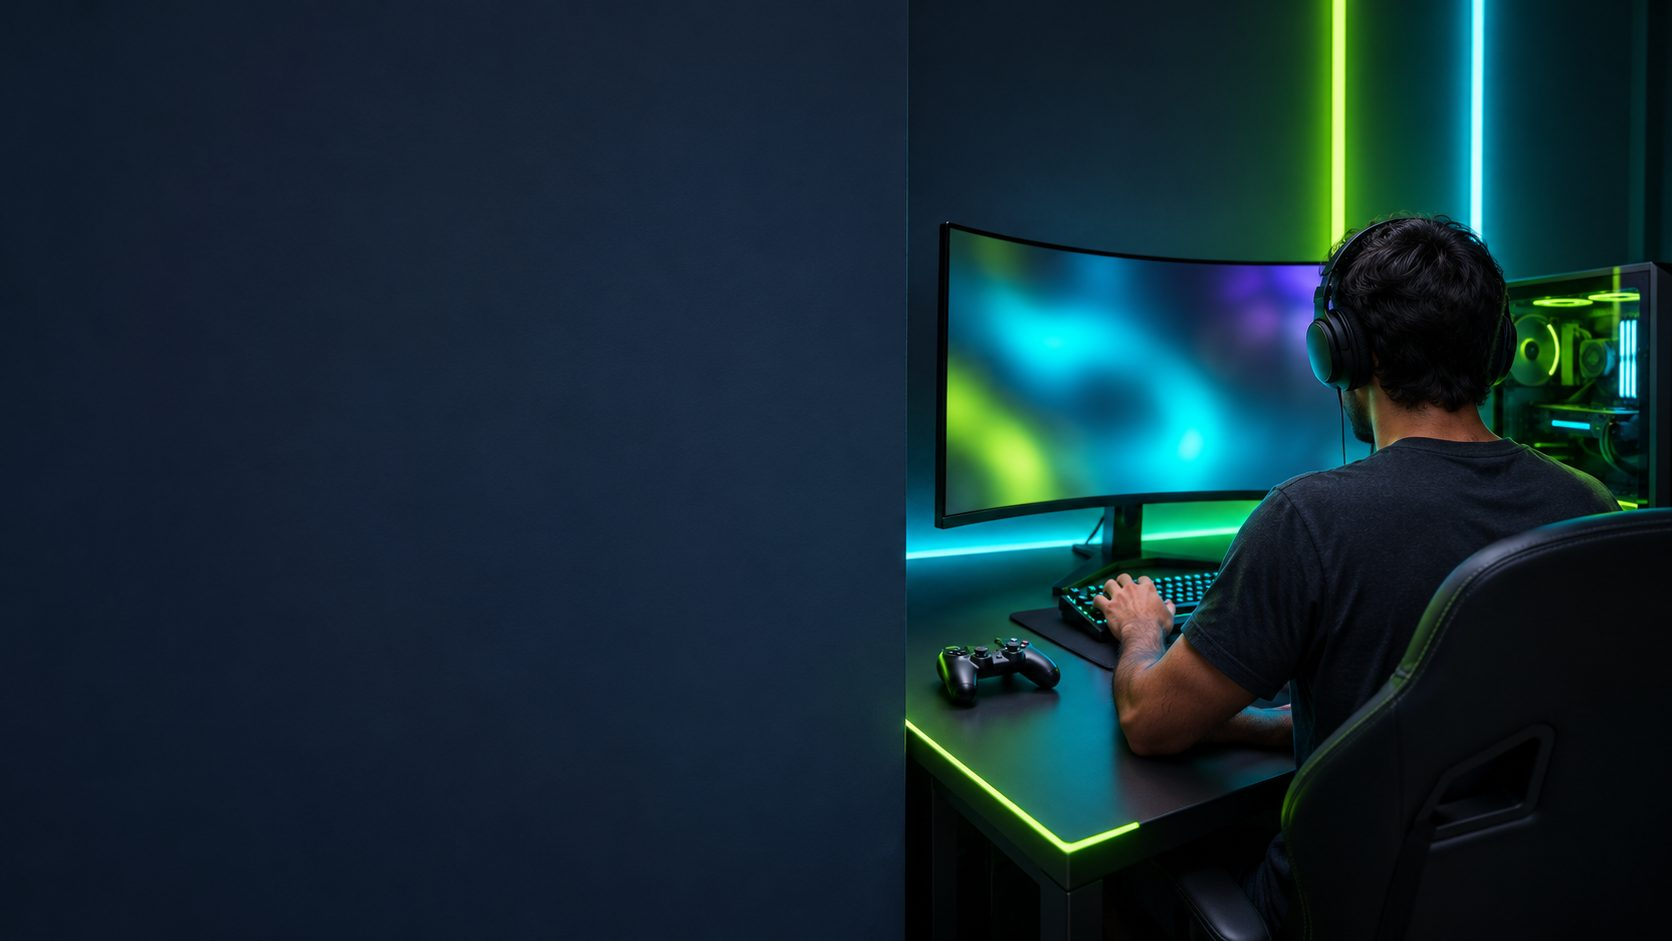
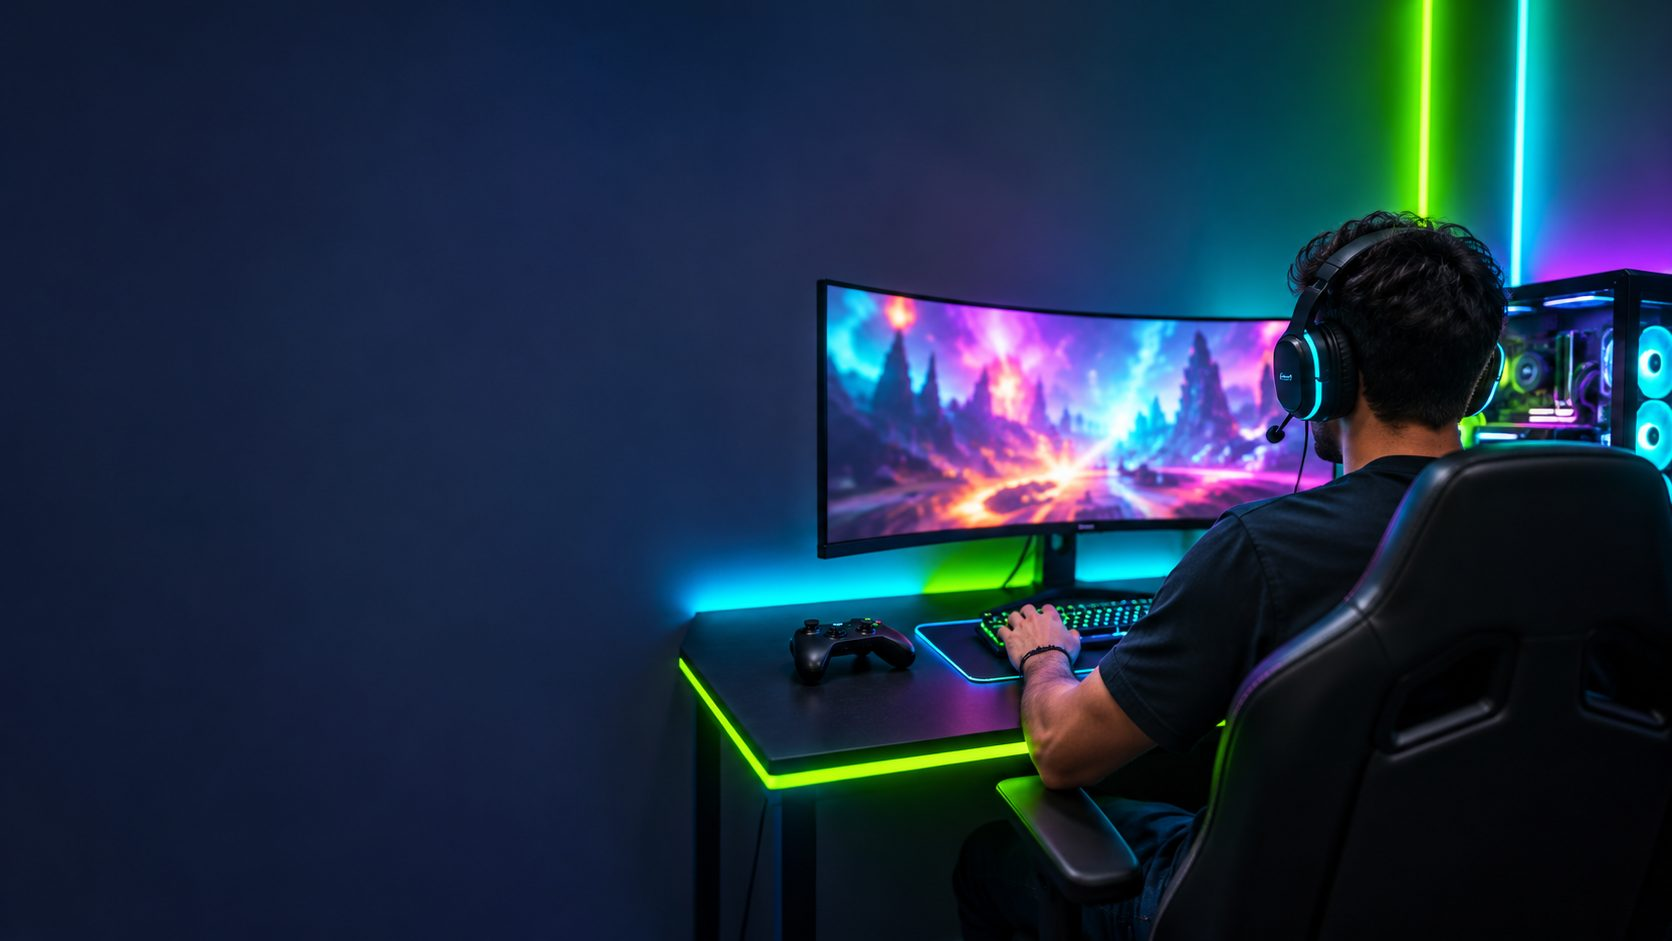
Gamer: as imagens dos prompts na página
- topo: mesma cena no computador e no celular; no celular o título fica na parede vazia da foto e o gamer aparece abaixo
- controle 3D flutuando nos planos, foto da instalação (2 cabos, até 10 m cada), fotos nos 5 cartões de 'Para quem é', arena ao fundo da chamada final
- chips do topo cabem 2 por linha em celular pequeno; og.jpg refeito

Claude-Session: https://claude.ai/code/session_015LBodQggXoPre5QmqdskpB

diff --git a/gamer/index.html b/gamer/index.html
@@ -86,12 +86,13 @@ h3{font-size:22px;line-height:1.15}
 .top .btn{min-height:42px;padding:10px 16px;font-size:15px}
 
 /* ---------- hero ---------- */
-.hero{--photo:clamp(170px,27svh,250px);position:relative;isolation:isolate;padding:var(--photo) 0 76px;overflow:hidden}
-/* foto: no celular é uma faixa no topo que some no fundo; no computador cobre o hero inteiro */
-.hero-bg{position:absolute;z-index:-4;top:0;left:0;right:0;height:calc(var(--photo) + 150px);pointer-events:none}
+.hero{position:relative;isolation:isolate;padding:26px 0 76px;overflow:hidden}
+/* foto: no celular o título fica na parede vazia do alto da foto e o gamer aparece logo abaixo; no computador a foto cobre o hero inteiro */
+.hero-bg{position:absolute;z-index:-4;top:0;left:0;right:0;height:min(125vw,640px);pointer-events:none}
+.hero-bg img{width:100%;height:100%;object-fit:cover;object-position:50% 100%;display:block}
+.hero-bg::after{content:"";position:absolute;inset:0;background:linear-gradient(180deg,rgba(28,33,55,.55) 0%,rgba(28,33,55,.2) 38%,rgba(28,33,55,0) 62%,rgba(28,33,55,.55) 86%,var(--bg) 100%)}
+.hero-gap{height:clamp(80px,calc(125vw - 300px),230px)}
 @media (max-width:979px){.hero .btns .btn-primary{order:-1}}
-.hero-bg img{width:100%;height:100%;object-fit:cover;object-position:55% 30%;display:block}
-.hero-bg::after{content:"";position:absolute;inset:0;background:linear-gradient(180deg,rgba(28,33,55,.15) 0%,rgba(28,33,55,.25) 45%,rgba(28,33,55,.85) 78%,var(--bg) 100%)}
 .hero::before{content:"";position:absolute;inset:0;z-index:-3;
   background:linear-gradient(rgba(var(--c),.09) 1px,transparent 1px) 0 0/44px 44px,linear-gradient(90deg,rgba(var(--c),.09) 1px,transparent 1px) 0 0/44px 44px;
   -webkit-mask-image:radial-gradient(ellipse 90% 60% at 70% 15%,#000 10%,transparent 70%);mask-image:radial-gradient(ellipse 90% 60% at 70% 15%,#000 10%,transparent 70%)}
@@ -262,9 +263,6 @@ td.u .ic{color:var(--cyan);filter:drop-shadow(0 0 4px rgba(var(--c),.8))}
 
 /* ---------- instalação ---------- */
 .inst-grid{display:grid;gap:30px;align-items:center}
-.inst-art{border-radius:18px;border:1px solid rgba(var(--c),.25);background:radial-gradient(ellipse at 50% 0%,rgba(var(--v),.16),transparent 60%),linear-gradient(180deg,#232b4a,#1b2038);padding:18px 10px 10px;box-shadow:0 0 30px rgba(var(--c),.08)}
-.inst-art svg{width:100%;height:auto}
-.inst-art text{font-family:'Rajdhani',sans-serif;font-weight:700;letter-spacing:.06em;text-transform:uppercase}
 .cable{fill:none;stroke-width:5;stroke-linecap:round}
 .cable-g{stroke:var(--green);filter:drop-shadow(0 0 6px rgba(var(--g),.85))}
 .cable-c{stroke:var(--cyan);filter:drop-shadow(0 0 6px rgba(var(--c),.85))}
@@ -307,7 +305,19 @@ td.u .ic{color:var(--cyan);filter:drop-shadow(0 0 4px rgba(var(--c),.8))}
 .who .card{padding:18px 15px}
 .who .card h3{font-size:19px;margin:12px 0 4px}
 .who .card p{font-size:14px;line-height:1.45}
-.who .ibox{width:42px;height:42px}
+.who .card{padding:0 0 16px;overflow:hidden}
+.who .card h3,.who .card p{padding:0 14px}
+.who-img{display:block;width:100%;height:auto;aspect-ratio:4/3;object-fit:cover;border-bottom:1px solid var(--line2)}
+.who .card:last-child .who-img{aspect-ratio:16/9;object-position:50% 40%}
+.pad-float{display:block;width:150px;height:auto;margin:-14px auto 4px;filter:drop-shadow(0 0 22px rgba(var(--c),.4)) drop-shadow(0 0 40px rgba(var(--v),.25));animation:padf 6s ease-in-out infinite}
+@keyframes padf{50%{transform:translateY(-10px) rotate(-5deg)}}
+#planos{overflow-x:clip}
+.inst-photo{position:relative;margin:0;border-radius:18px;overflow:hidden;border:1px solid rgba(var(--c),.3);box-shadow:0 0 30px rgba(var(--c),.18)}
+.inst-photo img{display:block;width:100%;height:auto}
+.inst-photo figcaption{position:absolute;left:12px;bottom:12px;display:flex;flex-wrap:wrap;gap:8px}
+.inst-photo figcaption span{padding:8px 12px;border-radius:999px;background:rgba(28,33,55,.88);border:1px solid rgba(var(--g),.65);font:700 14px/1 var(--head);letter-spacing:.08em;text-transform:uppercase;color:var(--green)}
+.inst-photo figcaption .c{border-color:rgba(var(--c),.65);color:var(--cyan)}
+.final-bg{position:absolute;inset:0;z-index:-2;width:100%;height:100%;object-fit:cover;opacity:.5}
 .who .card:last-child{grid-column:1 / -1}
 
 /* ---------- faq ---------- */
@@ -380,6 +390,7 @@ html.js .rv.in{opacity:1;transform:none}
   .nav{display:flex}
   .hero{padding:68px 0 110px}
   .hero-bg{inset:0;height:auto}
+  .hero-gap{display:none}
   .hero-bg img{object-position:right center}
   .hero-bg::after{background:linear-gradient(90deg,var(--bg) 0%,rgba(28,33,55,.92) 30%,rgba(28,33,55,.35) 52%,rgba(28,33,55,0) 70%),linear-gradient(0deg,var(--bg) 0%,rgba(28,33,55,0) 30%)}
   .hero .select{align-self:end}
@@ -389,9 +400,14 @@ html.js .rv.in{opacity:1;transform:none}
   .ex-grid{grid-template-columns:1fr 1.05fr;gap:56px}
   .route-card{position:sticky;top:96px}
   .inst-grid{grid-template-columns:1.05fr 1fr;gap:56px}
+}
+@media (min-width:1200px){
+  #planos .wrap{position:relative}
+  .pad-float{position:absolute;right:0;top:-46px;width:220px;margin:0}
   .who{grid-template-columns:repeat(5,1fr);gap:14px}
-  .who .card{padding:22px 18px}
+  .who .card{padding:0 0 18px}
   .who .card:last-child{grid-column:auto}
+  .who .card:last-child .who-img,.who-img{aspect-ratio:1/1}
 }
 @media (max-width:599px){
   table{font-size:13.5px}
@@ -408,7 +424,10 @@ html.js .rv.in{opacity:1;transform:none}
   .plan-speed{font-size:74px}
   th,td{padding:11px 7px}
   th:first-child,td:first-child{padding-left:12px}
-  .mini .card,.who .card{padding:16px 13px}
+  .mini .card{padding:16px 13px}
+  .chip{font-size:13.5px;padding:7px 10px 7px 8px;gap:6px}
+  .chip .ic{width:16px;height:16px}
+  .who .card h3,.who .card p{padding:0 12px}
 }
 @media (prefers-reduced-motion:reduce){
   html{scroll-behavior:auto}
@@ -475,7 +494,7 @@ html.js .rv.in{opacity:1;transform:none}
 <section class="hero" id="inicio">
   <picture class="hero-bg" aria-hidden="true">
     <source media="(min-width:980px)" srcset="hero-desktop.jpg">
-    <img src="hero-mobile.jpg" alt="" width="800" height="958" fetchpriority="high" decoding="async">
+    <img src="hero-mobile.jpg" alt="" width="800" height="1000" fetchpriority="high" decoding="async">
   </picture>
   <div class="floor" aria-hidden="true"><i></i></div>
   <div class="wrap hero-grid">
@@ -483,6 +502,7 @@ html.js .rv.in{opacity:1;transform:none}
       <span class="tag"><i></i>Linha Gamer · Gironet + ExitLag</span>
       <h1>Sua conexão está pronta para o <span class="hl">próximo nível?</span></h1>
       <p class="lead">Fibra simétrica, rotas priorizadas para jogos e ExitLag incluso no plano.</p>
+      <div class="hero-gap" aria-hidden="true"></div>
       <ul class="chips">
         <li class="chip"><svg class="ic"><use href="#i-sym"/></svg>800 Mega ou 1 Giga</li>
         <li class="chip"><svg class="ic"><use href="#i-zap"/></svg>ExitLag incluso</li>
@@ -543,6 +563,7 @@ html.js .rv.in{opacity:1;transform:none}
 <!-- 3. PLANOS -->
 <section class="sec" id="planos">
   <div class="wrap">
+    <img class="pad-float" src="controle.webp" alt="" aria-hidden="true" width="640" height="633" loading="lazy" decoding="async">
     <div class="sec-head center rv">
       <span class="eyebrow">Planos Gamer</span>
       <h2>Escolha o seu plano <span class="hl">Gamer</span></h2>
@@ -734,45 +755,10 @@ html.js .rv.in{opacity:1;transform:none}
 <!-- 8. INSTALAÇÃO VIP GAMER -->
 <section class="sec" id="instalacao">
   <div class="wrap inst-grid">
-    <div class="inst-art rv" aria-hidden="true">
-      <svg viewBox="0 0 520 330">
-        <!-- cabos -->
-        <path class="cable cable-g" d="M232 118 C 232 190, 110 160, 110 228"/>
-        <path class="cable-flow" d="M232 118 C 232 190, 110 160, 110 228"/>
-        <path class="cable cable-c" d="M288 118 C 288 190, 410 160, 410 228"/>
-        <path class="cable-flow" d="M288 118 C 288 190, 410 160, 410 228"/>
-        <!-- etiquetas de metragem -->
-        <g font-size="20">
-          <rect class="glow-g" x="92" y="142" width="120" height="38" rx="19" fill="#1c2137" stroke="#96ff40" stroke-width="2"/>
-          <text x="152" y="168" text-anchor="middle" fill="#96ff40">até 10 m</text>
-          <rect class="glow-c" x="308" y="142" width="120" height="38" rx="19" fill="#1c2137" stroke="#22e4ff" stroke-width="2"/>
-          <text x="368" y="168" text-anchor="middle" fill="#22e4ff">até 10 m</text>
-        </g>
-        <!-- roteador -->
-        <g>
-          <line x1="214" y1="62" x2="200" y2="20" stroke="#b0bad8" stroke-width="4" stroke-linecap="round"/>
-          <line x1="306" y1="62" x2="320" y2="20" stroke="#b0bad8" stroke-width="4" stroke-linecap="round"/>
-          <rect x="190" y="60" width="140" height="60" rx="12" fill="#2b3356" stroke="#a463ff" stroke-width="2" style="filter:drop-shadow(0 0 8px rgba(164,99,255,.6))"/>
-          <circle class="glow-g" cx="212" cy="90" r="4" fill="#96ff40"/><circle class="glow-g" cx="226" cy="90" r="4" fill="#96ff40"/><circle class="glow-c" cx="240" cy="90" r="4" fill="#22e4ff"/>
-          <rect x="222" y="110" width="20" height="12" rx="2" fill="#96ff40"/>
-          <rect x="278" y="110" width="20" height="12" rx="2" fill="#22e4ff"/>
-          <text x="296" y="97" text-anchor="middle" font-size="16" fill="#b0bad8">WI-FI</text>
-        </g>
-        <!-- PC -->
-        <g>
-          <rect class="glow-g" x="52" y="228" width="116" height="72" rx="8" fill="#2b3356" stroke="#96ff40" stroke-width="2"/>
-          <rect x="62" y="238" width="96" height="52" rx="4" fill="#1c2137"/>
-          <polyline points="74 272 92 258 106 268 124 250 146 262" fill="none" stroke="#96ff40" stroke-width="2.4" stroke-linecap="round" stroke-linejoin="round"/>
-          <text x="110" y="326" text-anchor="middle" font-size="21" fill="#f2f5ff">PC</text>
-        </g>
-        <!-- console -->
-        <g>
-          <rect class="glow-c" x="352" y="228" width="116" height="72" rx="10" fill="#2b3356" stroke="#22e4ff" stroke-width="2"/>
-          <svg x="380" y="234" width="60" height="60" style="color:#22e4ff"><use href="#i-pad"/></svg>
-          <text x="410" y="326" text-anchor="middle" font-size="21" fill="#f2f5ff">Console</text>
-        </g>
-      </svg>
-    </div>
+    <figure class="inst-photo rv">
+      <img src="instalacao.jpg" alt="Cabo de rede sendo ligado na porta do roteador" width="1000" height="750" loading="lazy" decoding="async">
+      <figcaption><span>2 cabos</span><span class="c">até 10 m cada</span></figcaption>
+    </figure>
     <div class="rv">
       <span class="eyebrow">Instalação VIP Gamer</span>
       <h2>PC e console <span class="hl">no cabo</span>, direto no roteador.</h2>
@@ -832,11 +818,11 @@ html.js .rv.in{opacity:1;transform:none}
       <h2>Feito para quem leva o jogo <span class="hl">a sério.</span></h2>
     </div>
     <div class="grid who">
-      <div class="card rv"><div class="ibox ibox-g"><svg class="ic"><use href="#i-trophy"/></svg></div><h3>Joga competitivo</h3><p>Busca mais estabilidade nas partidas.</p></div>
-      <div class="card rv"><div class="ibox"><svg class="ic"><use href="#i-pad"/></svg></div><h3>PC ou console</h3><p>Cabo direto no roteador.</p></div>
-      <div class="card rv"><div class="ibox ibox-v"><svg class="ic"><use href="#i-live"/></svg></div><h3>Faz live</h3><p>Upload alto para transmitir.</p></div>
-      <div class="card rv"><div class="ibox"><svg class="ic"><use href="#i-dl"/></svg></div><h3>Baixa jogos pesados</h3><p>Alta velocidade para downloads.</p></div>
-      <div class="card rv"><div class="ibox ibox-g"><svg class="ic"><use href="#i-users"/></svg></div><h3>Divide a internet</h3><p>Vários aparelhos ao mesmo tempo.</p></div>
+      <div class="card rv"><img class="who-img" src="quem-competitivo.jpg" alt="" width="600" height="600" loading="lazy" decoding="async"><h3>Joga competitivo</h3><p>Busca mais estabilidade nas partidas.</p></div>
+      <div class="card rv"><img class="who-img" src="quem-console.jpg" alt="" width="600" height="600" loading="lazy" decoding="async"><h3>PC ou console</h3><p>Cabo direto no roteador.</p></div>
+      <div class="card rv"><img class="who-img" src="quem-live.jpg" alt="" width="600" height="600" loading="lazy" decoding="async"><h3>Faz live</h3><p>Upload alto para transmitir.</p></div>
+      <div class="card rv"><img class="who-img" src="quem-download.jpg" alt="" width="600" height="600" loading="lazy" decoding="async"><h3>Baixa jogos pesados</h3><p>Alta velocidade para downloads.</p></div>
+      <div class="card rv"><img class="who-img" src="quem-familia.jpg" alt="" width="600" height="600" loading="lazy" decoding="async"><h3>Divide a internet</h3><p>Vários aparelhos ao mesmo tempo.</p></div>
     </div>
   </div>
 </section>
@@ -871,6 +857,7 @@ html.js .rv.in{opacity:1;transform:none}
 <section id="contratar">
   <div class="wrap">
     <div class="final-b rv"><div class="final center" style="text-align:center">
+      <img class="final-bg" src="final-bg.jpg" alt="" aria-hidden="true" width="1600" height="687" loading="lazy" decoding="async">
       <span class="eyebrow">Hora de jogar</span>
       <h2>Escolha seu plano e <span class="hl">prepare sua conexão.</span></h2>
       <p class="lead">ExitLag incluso, fibra simétrica e instalação no cabo.</p>
